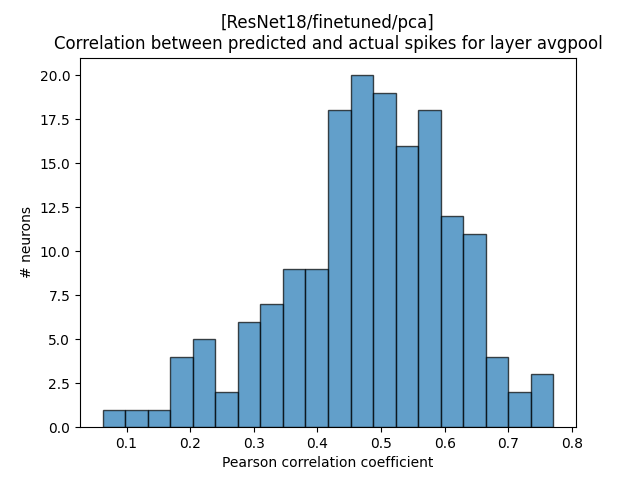
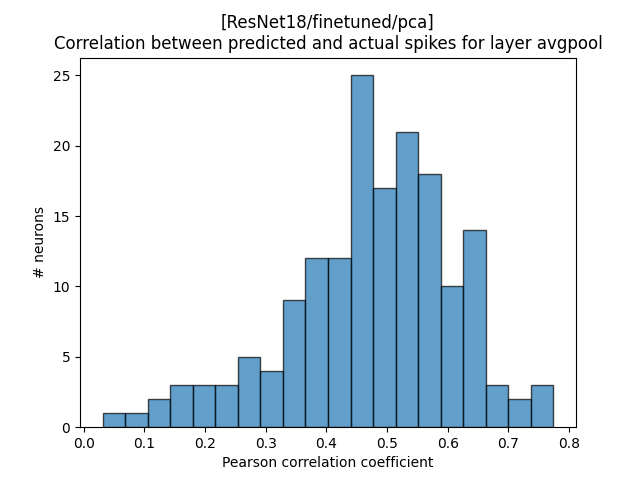
changes in IModel to finetune transformers (yet only possible with cnn)

diff --git a/src/models/IModel.py b/src/models/IModel.py
@@ -101,66 +101,138 @@ class IModel(ABC, nn.Module):
         Sets a final head (classification or regression) after the indicated layer.
         """
         return ModifiedModel(self.model, layer, num_classes)
-
-
+    
+    
+    
 class ModifiedModel(IModel):
     def __init__(self, base_model, insert_after, num_classes):
         super().__init__()
         self.model = base_model
-        self.base_model = base_model
         self.insert_after = insert_after
         self.num_classes = num_classes
-        self.layer_name = insert_after
+        
+        # Register hook on specified layer
+        self._register_hook()
 
-        # Extract layers up to the insertion point
-        self.features = nn.Sequential()
-        for name, module in base_model.named_children():
-            if isinstance(module, nn.ModuleList):
-                for subname, submodule in module.named_children():
-                    self.features.add_module(subname, submodule)
-                    if f'{name}.{subname}' == insert_after:
-                        self.layer = (name, module)
-                        break
-                else:
-                    continue
-                break
-            else:
-                self.features.add_module(name, module)
-                if name == insert_after:
-                    self.layer = (name, module)
-                    break
-
-        # Determine input dim for new head
+        # Run dummy forward to get shape of features
         dummy_input = torch.randn(1, 3, 224, 224)
         with torch.no_grad():
-            features = self._forward_features(dummy_input)
-            pooled = nn.AdaptiveAvgPool2d((16, 16))(features)
-            flat = pooled.view(pooled.size(0), -1)
-            head_in_features = flat.shape[1]  
+            _ = self.model(dummy_input)
+            features = self.captured_features
 
-        # Define new head (classification or regression)
+        # Process features according to type (ViT vs CNN)
+        if features.dim() == 4:  # CNN style: [B, C, H, W]
+            features = nn.AdaptiveAvgPool2d((16, 16))(features)
+            features = features.reshape(features.size(0), -1)
+        elif features.dim() == 3:  # ViT style: [B, N, D]
+            features = features[:, 0]  # Use only [CLS] token
+        else:
+            raise ValueError("Unknown feature shape from intercepted layer")
+
+        in_features = features.shape[1]
+
+        # Define classifier head
         self.fc = nn.Sequential(
             nn.AdaptiveAvgPool2d((16, 16)),
             nn.Flatten(),
-            nn.Linear(head_in_features, 1024),
+            nn.Linear(in_features, 1024),
             nn.ReLU(),
             nn.Dropout(0.3),
             nn.Linear(1024, num_classes)
-        )
+        ) if features.dim() == 4 else  nn.Sequential(
+                nn.Linear(in_features, 1024),
+                nn.ReLU(),
+                nn.Dropout(0.3),
+                nn.Linear(1024, num_classes)
+            )
+        
 
-    def _forward_features(self, x):
-        for name, module in self.features.named_children():
-            if isinstance(module, nn.ModuleList):
-                for submodule in module:
-                    x = submodule(x)
-            else:
-                x = module(x)
-        return x
+    def _register_hook(self):
+        def hook_fn(module, input, output):
+            self.captured_features = output
+
+        # Traverse and hook the desired layer
+        for name, module in self.model.named_modules():
+            if name == self.insert_after:
+                module.register_forward_hook(hook_fn)
+                self.hooked_layer = module
+                return
+        raise ValueError(f"Layer '{self.insert_after}' not found in model.")
 
     def forward(self, x):
-        x = self._forward_features(x)
-        x = self.fc(x)
-        return x
-    
+        _ = self.model(x)
+        features = self.captured_features
+
+        if features.dim() == 4:  # CNN
+            features = nn.AdaptiveAvgPool2d((16, 16))(features)
+            features = features.reshape(features.size(0), -1)
+        elif features.dim() == 3:  # ViT
+            features = features[:, 0]
+
+        return self.fc(features)
+
     def get_layers(self, layer_name=None):
-        return [(self.layer_name, self.layer[1])]
+        return [(self.insert_after, self.hooked_layer)]
+
+
+# class ModifiedModel(IModel):
+#     def __init__(self, base_model, insert_after, num_classes):
+#         super().__init__()
+#         self.model = base_model
+#         self.base_model = base_model
+#         self.insert_after = insert_after
+#         self.num_classes = num_classes
+#         self.layer_name = insert_after
+
+#         # Extract layers up to the insertion point
+#         self.features = nn.Sequential()
+#         for name, module in base_model.named_children():
+#             if isinstance(module, nn.ModuleList):
+#                 for subname, submodule in module.named_children():
+#                     self.features.add_module(subname, submodule)
+#                     if f'{name}.{subname}' == insert_after:
+#                         self.layer = (name, module)
+#                         break
+#                 else:
+#                     continue
+#                 break
+#             else:
+#                 self.features.add_module(name, module)
+#                 if name == insert_after:
+#                     self.layer = (name, module)
+#                     break
+
+#         # Determine input dim for new head
+#         dummy_input = torch.randn(1, 3, 224, 224)
+#         with torch.no_grad():
+#             features = self._forward_features(dummy_input)
+#             pooled = nn.AdaptiveAvgPool2d((16, 16))(features)
+#             flat = pooled.view(pooled.size(0), -1)
+#             head_in_features = flat.shape[1]  
+
+#         # Define new head (classification or regression)
+#         self.fc = nn.Sequential(
+#             nn.AdaptiveAvgPool2d((16, 16)),
+#             nn.Flatten(),
+#             nn.Linear(head_in_features, 1024),
+#             nn.ReLU(),
+#             nn.Dropout(0.3),
+#             nn.Linear(1024, num_classes)
+#         )
+
+#     def _forward_features(self, x):
+#         for name, module in self.features.named_children():
+#             if isinstance(module, nn.ModuleList):
+#                 for submodule in module:
+#                     x = submodule(x)
+#             else:
+#                 x = module(x)
+#         return x
+
+#     def forward(self, x):
+#         x = self._forward_features(x)
+#         x = self.fc(x)
+#         return x
+    
+#     def get_layers(self, layer_name=None):
+#         return [(self.layer_name, self.layer[1])]
